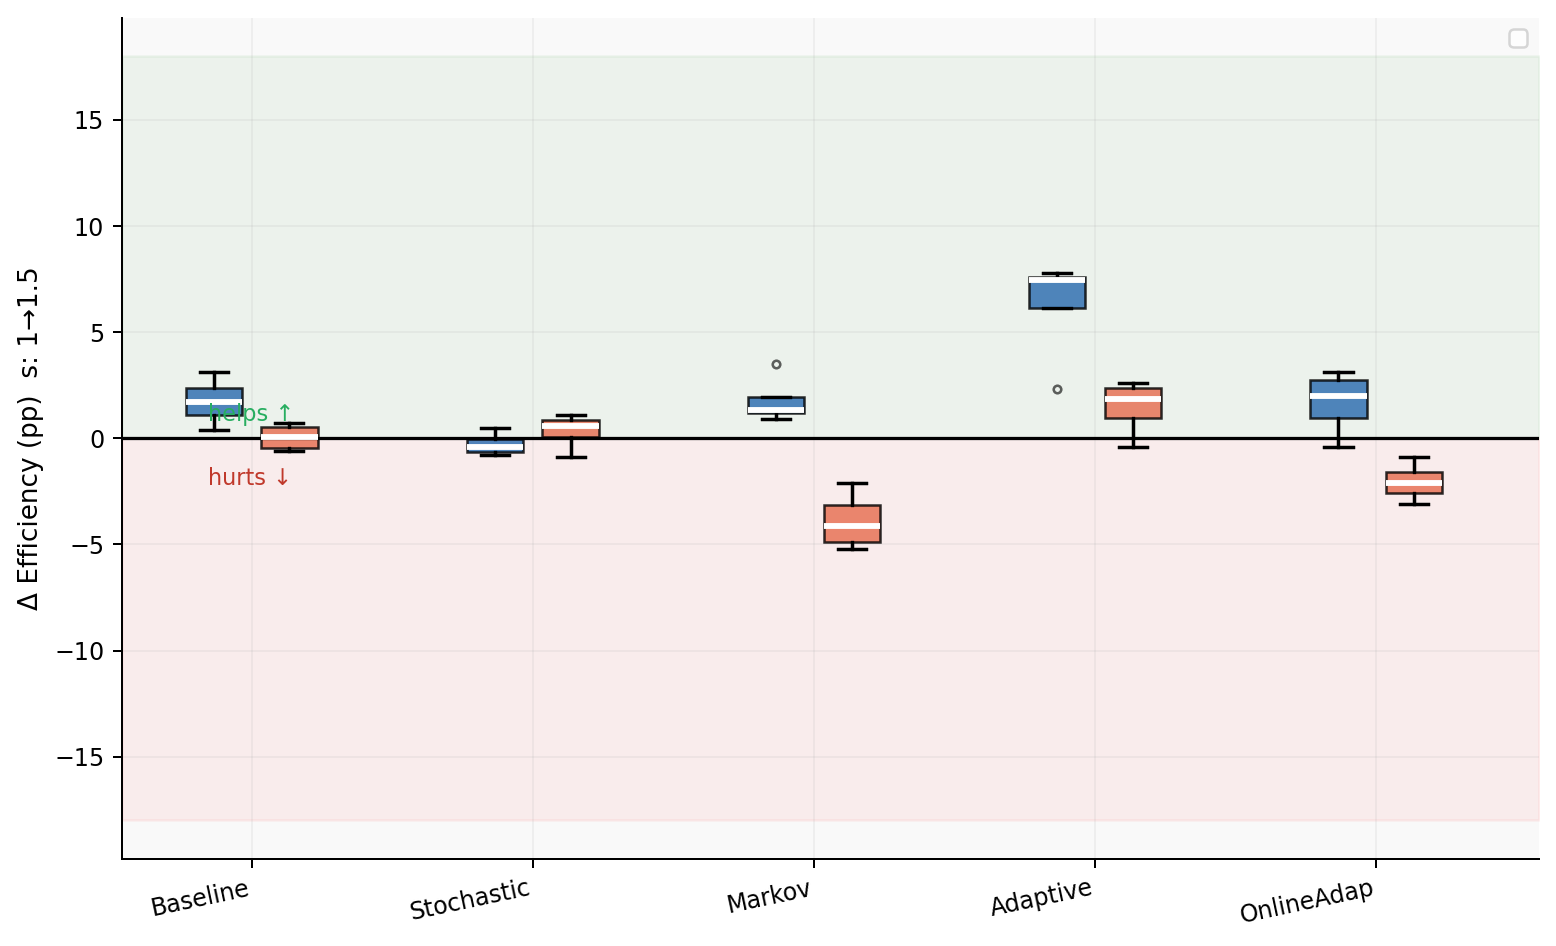
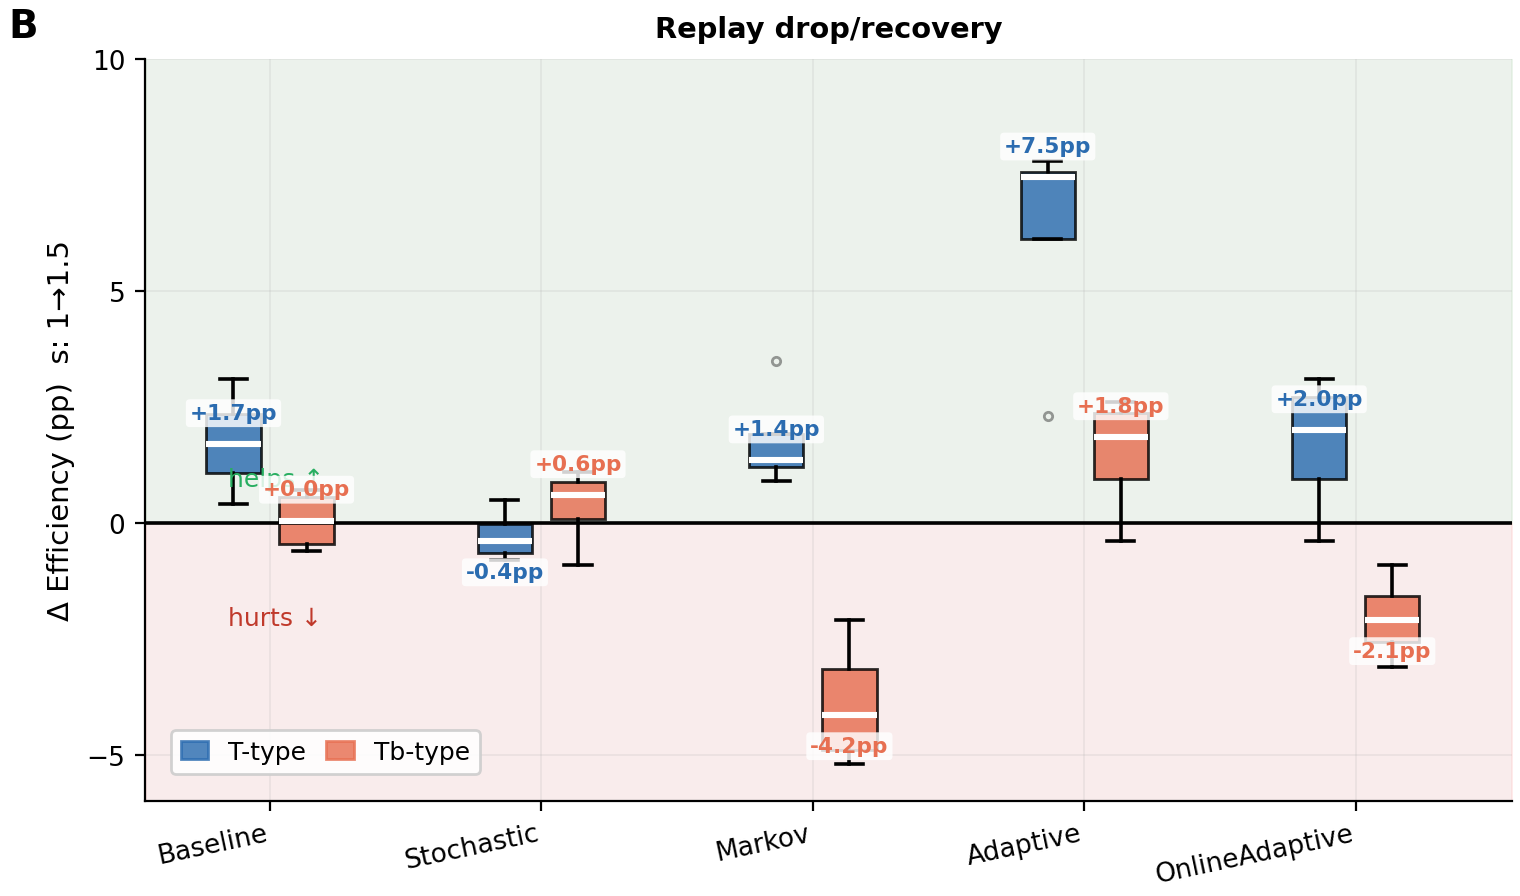
Updates from Overleaf

diff --git a/ICNP_VENUE_PREP/APPENDIX_DIAGNOSTIC_FIGURES.tex b/ICNP_VENUE_PREP/APPENDIX_DIAGNOSTIC_FIGURES.tex
@@ -6,7 +6,7 @@ This appendix collects diagnostic figures that complement the main Results figur
 \subsection{Additional Claim Support}
 \label{app:checkpoint_claim_support}
 
-The following figures provide supporting views for claims that are central to the paper but too detailed for the main Results flow. They extend the main-body evidence in \Cref{fig:cross_testbed_confirmation,fig:capacity_paradox,fig:deployment_guidance} by showing contextual-versus-EXP3 Oracle-gap behavior, the retained context-capacity interaction, and threat-conditioned deployment structure in more detail. \Cref{fig:appendix_g8_advanced_synthesis} now carries the replay-configuration sensitivity view in Panel~(D), replacing the duplicate context-capacity panel that previously appeared in the grouped synthesis figure.
+The following figures provide supporting views for claims that are central to the paper but too detailed for the main Results flow. They extend the main-body evidence in \Cref{fig:cross_testbed_confirmation,fig:capacity_paradox,fig:deployment_guidance}: \Cref{fig:appendix_context_vs_exp3_gap} shows contextual-versus-EXP3 Oracle-gap behavior, \Cref{fig:appendix_context_deployment_support} pairs context-capacity and deployment-rule evidence, and \Cref{fig:appendix_g8_advanced_synthesis} gives the grouped replay/configuration synthesis.
 
 \begin{figure}[H]
 \centering
@@ -24,60 +24,85 @@ noise to adaptive interference.}
 \label{fig:appendix_context_vs_exp3_gap}
 \end{figure}
 
-\begin{figure}[H]
+\begin{figure*}[ht!]
 \centering
-\textbf{Context-Capacity Interaction}\\[-0.0em]
-\includegraphics[width=\columnwidth]{figures/icnp/ICNP-CODE-053_fig6_context_capacity.png}
-\caption{Context-aware capacity variants remain above EXP3-style baselines in
-most threat regimes, while non-context variants expose larger threat-conditioned
-losses. This retained standalone view preserves the context-capacity evidence
-from the former grouped Panel~(D) after that panel was repurposed for
-replay-configuration sensitivity.}
-\label{fig:appendix_context_capacity_effects}
-\end{figure}
-
-\begin{figure}[H]
-\centering
-\textbf{Threat-Conditioned Deployment Rules}\\[-0.0em]
-\includegraphics[width=\columnwidth]{figures/icnp/ICNP-CODE-056_fig10_threat_rules.png}
-\caption{Recommended deployment choices vary with the active threat regime,
-showing that allocator and replay settings act as threat-conditioned controls.
-One visible rule pattern is that Adaptive disruption selects
-\texttt{ThompsonSampling} with $T_b$-type replay, while OnlineAdaptive returns
-to the static \texttt{Fixed} allocator with $T$-type replay. The static default
-remains strong across scenarios, and the threat-specific rules show that robust
-quantum-routing deployment requires matching policy, allocator, and replay
-settings to the active threat regime.}
+\subfloat[Context-capacity behavior by family and threat: contextual $T$/$T_b$
+curves stay near or above 85\%, while EXP3 variants remain lower until Baseline,
+showing that replay robustness depends on path/context structure.
+\label{fig:appendix_context_capacity_effects}]{%
+  \begin{minipage}{0.49\textwidth}
+  \centering
+  \textbf{Context-Capacity Interaction}\\[-0.0em]
+  \includegraphics[height=1.95in,keepaspectratio]{figures/icnp/ICNP-CODE-053_fig6_context_capacity.png}
+  \end{minipage}}
+\hfill
+\subfloat[Threat-conditioned deployment choices from the validated rule table:
+informed settings remain near or above 85\%, while \texttt{Random} is visibly
+weaker, showing that allocator and replay choices are deployment controls.
+\label{fig:appendix_threat_rules}]{%
+  \begin{minipage}{0.49\textwidth}
+  \centering
+  \textbf{Threat-Conditioned Deployment Rules}\\[-0.0em]
+  \includegraphics[height=1.95in,keepaspectratio]{figures/icnp/ICNP-CODE-056_fig10_threat_rules.png}
+  \end{minipage}}
+\caption{Panels~(a) and~(b) show the big picture for appendix deployment
+support: capacity robustness is jointly shaped by policy family, replay
+semantics, threat regime, and allocator choice.}
 % \shee{What is the additional support provided? All captions need to be more descriptive and explicitly mention the results that are shown. Don't just mention what the graph shows, also mention what is being observed.} -- SOLVED: Caption now states the observed deployment consequence.
-\label{fig:appendix_threat_rules}
-\end{figure}
+\label{fig:appendix_context_deployment_support}
+\end{figure*}
 
 \subsection{Grouped Synthesis Diagnostics}
 \label{app:grouped_synthesis_diagnostics}
 
-The grouped synthesis figure below remains in the appendix because it combines multiple diagnostic views without repeating standalone appendix figures. \Cref{fig:appendix_g8_advanced_synthesis} serves as the appendix-side reference point when readers want one grouped view of how the detailed diagnostics connect, including the original replay-configuration sensitivity line view in Panel~(D).
+The grouped synthesis figure below remains in the appendix because it lays out the diagnostic panels as a wider four-panel synthesis. \Cref{fig:appendix_g8_advanced_synthesis} serves as the appendix-side reference point when readers want one view of how model-family gaps, replay drop/recovery, allocator efficiency, and replay-configuration sensitivity connect.
 
 \begin{figure*}[ht!]
 \centering
-\textbf{Advanced Synthesis Diagnostics}\\[0.75em]
-\begin{tikzpicture}
-\node[anchor=south west, inner sep=0] (img) at (0,0) {\includegraphics[width=0.98\textwidth]{figures/icnp/ICNP-CODE-024_g8_advanced_4panel_grouped_full_figure.png}};
-% Uncomment the below to remove figure D
-% \begin{scope}[x={(img.south east)},y={(img.north west)}]
-%     \fill[white] (0.5,0) rectangle (1,0.5);
-% \end{scope}
-\end{tikzpicture}
-\caption{Panel~(A) shows that contextual and pursuit--neural policies
-concentrate at lower \texttt{Oracle} gaps, indicating lower efficiency loss than
-weaker baselines. Panel~(B) shows the capacity-paradox pattern: intermediate
-replay scale produces the weakest robustness, while larger scale recovers
-performance in this threat configuration. Panel~(C) shows that allocator choice
-changes both average efficiency and tail behavior, making allocation policy part
-of the robustness mechanism. Panel~(D) preserves the original
-replay-configuration sensitivity view: under OnlineAdaptive, $T$-type replay
-spans 83.2--90.6\%, while $T_b$-type replay spans 84.2--86.6\%. Together, the panels
-show that routing robustness is governed by the interaction among policy family,
-replay/capacity setting, allocator choice, and threat regime.}
+\subfloat[Oracle-gap distributions by family: EXP3 has the largest losses,
+while hybrid/contextual families concentrate closer to the 15~pp line, showing
+that context-aware and pursuit--neural designs define the stability frontier.
+\label{fig:appendix_g8_panel_a}]{%
+  \begin{minipage}{0.49\textwidth}
+  \centering
+  \textbf{Oracle-Gap Distribution}\\[-0.0em]
+  \includegraphics[width=\linewidth]{figures/icnp/ICNP-CODE-025_g8_advanced_4panel_panel_a_oracle_gap_distribution_by_model_family.png}
+  \end{minipage}}
+\hfill
+\subfloat[Replay-scale $\Delta$ by threat and semantic: median effects switch
+from helpful to harmful in Markov and OnlineAdaptive slices, giving the
+drop/recovery evidence behind the capacity paradox.
+\label{fig:appendix_g8_panel_b}]{%
+  \begin{minipage}{0.49\textwidth}
+  \centering
+  \textbf{Replay Drop/Recovery}\\[-0.0em]
+  \includegraphics[width=\linewidth]{figures/icnp/ICNP-CODE-026_g8_advanced_4panel_panel_b_capacity_paradox_replay_scaling_by_scenario_s.png}
+  \end{minipage}}
+
+\vspace{0.75em}
+
+\subfloat[Allocator efficiency by scenario for \texttt{iCPursuitNeuralUCB}:
+\texttt{Fixed} remains strongest, while \texttt{Random} and mismatched adaptive
+allocators expose lower floors, showing allocator-driven tail risk.
+\label{fig:appendix_g8_panel_c}]{%
+  \begin{minipage}{0.49\textwidth}
+  \centering
+  \textbf{Allocator Efficiency}\\[-0.0em]
+  \includegraphics[width=\linewidth]{figures/icnp/ICNP-CODE-027_g8_advanced_4panel_panel_c_allocator_efficiency_per_scenario_icpursuitne.png}
+  \end{minipage}}
+\hfill
+\subfloat[Replay-configuration sensitivity across six settings: OnlineAdaptive
+spans 83.2--90.6\% for $T$-type replay and 84.2--86.6\% for $T_b$, showing that
+anchoring rule changes the same scale effect.
+\label{fig:appendix_g8_panel_d}]{%
+  \begin{minipage}{0.49\textwidth}
+  \centering
+  \textbf{Replay-Configuration Sensitivity}\\[-0.0em]
+  \includegraphics[width=\linewidth]{figures/icnp/ICNP-CODE-035_g9_network_gap_analysis_panel_f_capacity_paradox_all_6_replay_configs_sc.png}
+  \end{minipage}}
+\caption{Together, the panels show the big-picture synthesis: routing
+robustness is governed by the interaction among model family, replay/capacity
+setting, allocator choice, and threat regime.}
 % \shee{Isn't Fig 13D the same as Fig. 8a?} -- SOLVED: Kept this appendix figure as a four-panel diagnostic synthesis and removed the rendered feedback marker from the caption.
 
 \label{fig:appendix_g8_advanced_synthesis}

diff --git a/figures/icnp-exported-assets/build_G8_G9.py b/figures/icnp-exported-assets/build_G8_G9.py
@@ -34,6 +34,21 @@ OUT_PANEL_D = (
     / "icnp"
     / "ICNP-CODE-033_g9_network_gap_analysis_panel_d_rq1_algorithm_tier_separation_stochastic.png"
 )
+OUT_G8_PANEL_A = (
+    SCRIPT_DIR.parent
+    / "icnp"
+    / "ICNP-CODE-025_g8_advanced_4panel_panel_a_oracle_gap_distribution_by_model_family.png"
+)
+OUT_G8_PANEL_B = (
+    SCRIPT_DIR.parent
+    / "icnp"
+    / "ICNP-CODE-026_g8_advanced_4panel_panel_b_capacity_paradox_replay_scaling_by_scenario_s.png"
+)
+OUT_G8_PANEL_C = (
+    SCRIPT_DIR.parent
+    / "icnp"
+    / "ICNP-CODE-027_g8_advanced_4panel_panel_c_allocator_efficiency_per_scenario_icpursuitne.png"
+)
 OUT_PANEL_C = (
     SCRIPT_DIR.parent
     / "icnp"
@@ -524,35 +539,29 @@ def base_style():
 
 
 # ════════════════════════════════════════════════════════════════════════════
-def build_G8():
-    base_style()
-    fig = plt.figure(figsize=(16,12)); fig.patch.set_facecolor('white')
-    gs  = gridspec.GridSpec(2,2,figure=fig,hspace=0.52,wspace=0.42)
-    axA = fig.add_subplot(gs[0,0]); axB = fig.add_subplot(gs[0,1])
-    axC = fig.add_subplot(gs[1,0]); axD = fig.add_subplot(gs[1,1])
-
-    # A — notched box + strip: Oracle-gap by family
+def draw_g8_oracle_gap_distribution_panel(ax):
     fams=['CMAB','iCMAB','EXP3','Hybrid']; fc=[C['CMAB'],C['iCMAB'],C['EXP3'],C['HYBRID']]
     dA=[GAP_DATA[f] for f in fams]
-    bp=axA.boxplot(dA,patch_artist=True,notch=True,
+    bp=ax.boxplot(dA,patch_artist=True,notch=True,
         medianprops=dict(color='white',linewidth=2.5),
         whiskerprops=dict(linewidth=1.4,linestyle='--'),capprops=dict(linewidth=1.8),
         flierprops=dict(marker='D',markersize=3.5,alpha=0.45,linestyle='none'))
     for p,col in zip(bp['boxes'],fc): p.set_facecolor(col); p.set_alpha(0.82)
     for i,(d,col) in enumerate(zip(dA,fc),1):
         jit=RNG.uniform(-0.22,0.22,len(d))
-        axA.scatter(np.full(len(d),i)+jit,d,s=24,color=col,alpha=0.38,zorder=3,linewidths=0)
-    label_box_medians(axA, range(1, 5), dA, fc, dy=0.8)
-    axA.axhline(15,color=C['THRESH'],ls='--',lw=1.2,alpha=0.7)
-    axA.text(4.42,16.8,'85% eff.',ha='right',va='bottom',fontsize=9,color=C['THRESH'])
-    axA.set_xticks(range(1,5)); axA.set_xticklabels(fams,fontsize=10.5)
-    axA.set_ylabel('Oracle Gap (pp)'); axA.set_facecolor('#f9f9f9')
+        ax.scatter(np.full(len(d),i)+jit,d,s=24,color=col,alpha=0.38,zorder=3,linewidths=0)
+    label_box_medians(ax, range(1, 5), dA, fc, dy=0.8)
+    ax.axhline(15,color=C['THRESH'],ls='--',lw=1.2,alpha=0.7)
+    ax.text(4.42,16.8,'85% eff.',ha='right',va='bottom',fontsize=9,color=C['THRESH'])
+    ax.set_xticks(range(1,5)); ax.set_xticklabels(fams,fontsize=10.5)
+    ax.set_ylabel('Oracle Gap (pp)'); ax.set_facecolor('#f9f9f9')
     fam_handles=[mpatches.Patch(color=col,alpha=0.82,label=fam) for fam,col in zip(fams,fc)]
-    axA.legend(handles=fam_handles,loc='upper right',ncol=2,frameon=True,framealpha=0.88,fontsize=8,title='Family')
-    panel_label(axA,'A','Oracle-Gap Distribution by Model Family')
-    panel_subtitle(axA, 'Oracle-gap distribution')
+    ax.legend(handles=fam_handles,loc='upper right',ncol=2,frameon=True,framealpha=0.88,fontsize=8,title='Family')
+    panel_label(ax,'A','Oracle-Gap Distribution by Model Family')
+    panel_subtitle(ax, 'Oracle-gap distribution')
 
-    # B — grouped box: capacity paradox
+
+def draw_g8_capacity_delta_panel(axB):
     n=5; pos_T=[i*2.6+0.45 for i in range(n)]; pos_Tb=[i*2.6+1.15 for i in range(n)]
     def dboxes(ax,dl,pos,col,lbl):
         b=ax.boxplot(dl,positions=pos,widths=0.52,patch_artist=True,
@@ -578,7 +587,8 @@ def build_G8():
     panel_label(axB,'B','Capacity Paradox: Replay Scaling Δ by Scenario & Semantic')
     panel_subtitle(axB, 'Replay drop/recovery')
 
-    # C — grouped bar: allocator × scenario
+
+def draw_g8_allocator_efficiency_panel(axC):
     anames=['Fixed','DynamicUCB','Thompson','Random']
     acols=[C['FIXED'],C['DUB'],C['THOM'],C['RAND']]
     x=np.arange(5); w=0.18; offs=np.array([-1.5,-0.5,0.5,1.5])*w
@@ -595,6 +605,18 @@ def build_G8():
     axC.set_facecolor('#f9f9f9')
     panel_label(axC,'C','Allocator Efficiency per Scenario (iCPursuitNeuralUCB)')
     panel_subtitle(axC, 'Allocator efficiency')
+
+
+def build_G8():
+    base_style()
+    fig = plt.figure(figsize=(16,12)); fig.patch.set_facecolor('white')
+    gs  = gridspec.GridSpec(2,2,figure=fig,hspace=0.52,wspace=0.42)
+    axA = fig.add_subplot(gs[0,0]); axB = fig.add_subplot(gs[0,1])
+    axC = fig.add_subplot(gs[1,0]); axD = fig.add_subplot(gs[1,1])
+
+    draw_g8_oracle_gap_distribution_panel(axA)
+    draw_g8_capacity_delta_panel(axB)
+    draw_g8_allocator_efficiency_panel(axC)
 
     # D — replay-configuration sensitivity retained after standalone duplicate removal
     draw_capacity_all_configs_panel(axD, include_panel_label=False)
@@ -805,6 +827,39 @@ def build_context_capacity_panel():
     print(f"Wrote {OUT_CONTEXT_CAPACITY}")
 
 
+def build_g8_oracle_gap_distribution_panel():
+    base_style()
+    fig, ax = plt.subplots(figsize=(7.64, 4.58), dpi=200)
+    fig.patch.set_facecolor('white')
+    draw_g8_oracle_gap_distribution_panel(ax)
+    fig.subplots_adjust(left=0.08, right=0.985, top=0.97, bottom=0.13)
+    fig.savefig(OUT_G8_PANEL_A, dpi=200, bbox_inches='tight', pad_inches=0.04, facecolor='white')
+    plt.close(fig)
+    print(f"Wrote {OUT_G8_PANEL_A}")
+
+
+def build_g8_capacity_delta_panel():
+    base_style()
+    fig, ax = plt.subplots(figsize=(7.64, 4.58), dpi=200)
+    fig.patch.set_facecolor('white')
+    draw_g8_capacity_delta_panel(ax)
+    fig.subplots_adjust(left=0.09, right=0.985, top=0.97, bottom=0.16)
+    fig.savefig(OUT_G8_PANEL_B, dpi=200, bbox_inches='tight', pad_inches=0.04, facecolor='white')
+    plt.close(fig)
+    print(f"Wrote {OUT_G8_PANEL_B}")
+
+
+def build_g8_allocator_efficiency_panel():
+    base_style()
+    fig, ax = plt.subplots(figsize=(7.64, 4.58), dpi=200)
+    fig.patch.set_facecolor('white')
+    draw_g8_allocator_efficiency_panel(ax)
+    fig.subplots_adjust(left=0.08, right=0.985, top=0.97, bottom=0.13)
+    fig.savefig(OUT_G8_PANEL_C, dpi=200, bbox_inches='tight', pad_inches=0.04, facecolor='white')
+    plt.close(fig)
+    print(f"Wrote {OUT_G8_PANEL_C}")
+
+
 def build_scenario_penalty_panel():
     base_style()
     fig, ax = plt.subplots(figsize=(7.64, 4.58), dpi=200)
@@ -842,7 +897,7 @@ if __name__ == "__main__":
     parser = argparse.ArgumentParser(description="Build ICNP G8/G9 result figures.")
     parser.add_argument(
         "--only",
-        choices=["all", "panel-c", "panel-d", "panel-e", "panel-f", "fig6b-bar", "context-capacity", "panel-g", "panel-h", "panel-i"],
+        choices=["all", "panel-c", "panel-d", "panel-e", "panel-f", "fig6b-bar", "context-capacity", "g8-a", "g8-b", "g8-c", "panel-g", "panel-h", "panel-i"],
         default="all",
         help="Build all figures or only one manuscript-facing labeled panel.",
     )
@@ -859,6 +914,12 @@ if __name__ == "__main__":
         build_capacity_bar_alternative_panel()
     elif args.only == "context-capacity":
         build_context_capacity_panel()
+    elif args.only == "g8-a":
+        build_g8_oracle_gap_distribution_panel()
+    elif args.only == "g8-b":
+        build_g8_capacity_delta_panel()
+    elif args.only == "g8-c":
+        build_g8_allocator_efficiency_panel()
     elif args.only == "panel-g":
         build_scenario_penalty_panel()
     elif args.only == "panel-h":
@@ -873,6 +934,9 @@ if __name__ == "__main__":
         build_threat_heatmap_panel()
         build_capacity_all_configs_panel()
         build_context_capacity_panel()
+        build_g8_oracle_gap_distribution_panel()
+        build_g8_capacity_delta_panel()
+        build_g8_allocator_efficiency_panel()
         build_scenario_penalty_panel()
         build_allocator_risk_panel()
         build_cross_testbed_panel()

diff --git a/ICNP_VENUE_PREP/ACTIVE_FEEDBACK_RESOLUTION_LOG.md b/ICNP_VENUE_PREP/ACTIVE_FEEDBACK_RESOLUTION_LOG.md
@@ -2,6 +2,13 @@
 
 This log records feedback-resolution batches applied to the active ICNP venue draft. It complements the per-section audit notes and follows the repository process in `AGENTS.md`: identify the owning file, make the smallest safe change, preserve validated content, and keep reviewer feedback traceable as LaTeX source comments with `SOLVED` explanations.
 
+## Batch: May 23 appendix figure grouping/caption style
+
+- **Owning files changed:** `ICNP_VENUE_PREP/APPENDIX_DIAGNOSTIC_FIGURES.tex`
+- **Reason for batching:** The appendix `Context-Capacity Interaction` and `Threat-Conditioned Deployment Rules` figures should follow the same two-panel style as the other double figures, and the grouped synthesis panels needed wider presentation with concise show/evidence/meaning captions.
+- **Change:** Converted the two standalone appendix support figures into one two-panel figure, equalized the two panel image heights, widened the four grouped synthesis panel slots, rewrote each subcaption to state what the panel shows/evidences/means, and made the nearby appendix prose reference the correct appendix figure labels.
+- **Validation:** Full LaTeX compile passed; PDF remains 16 pages. Appendix pages 13--14 were rendered and inspected to confirm Figures 11--12 fit and captions are visible.
+
 ## Batch: May 23 Figure 11 restyle
 
 - **Owning files changed:** `figures/icnp-exported-assets/build_G8_G9.py`, `figures/icnp/ICNP-CODE-053_fig6_context_capacity.png`, `figures/icnp/icnp_validation_image_manifest.csv`, `ICNP_VENUE_PREP/BUILD_VALIDATION_LOG.md`
